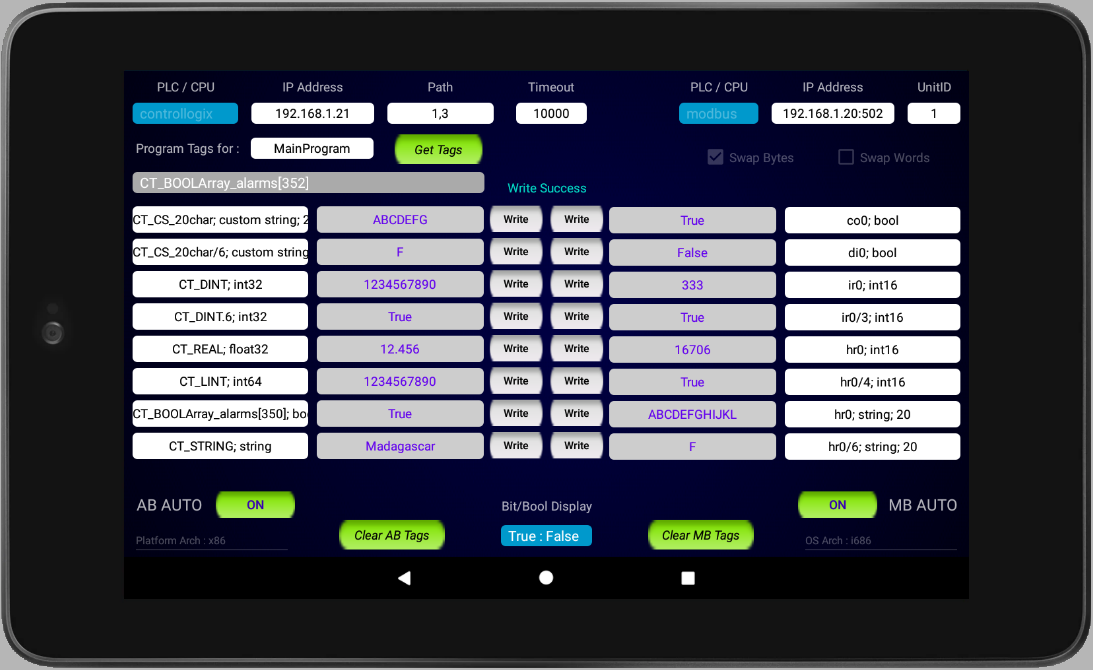
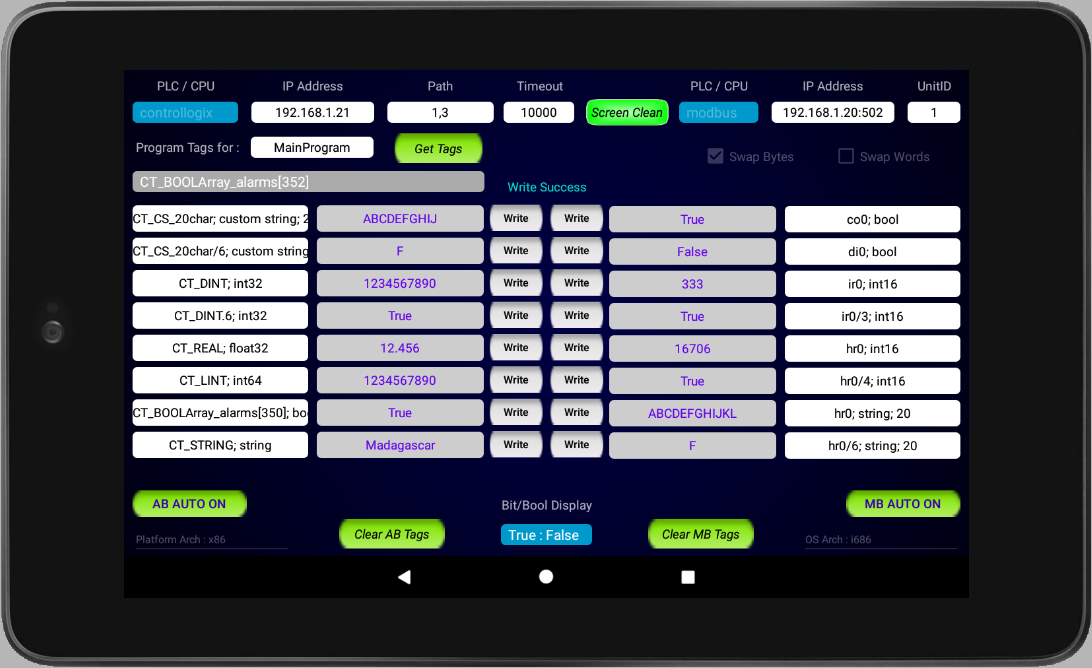
Update GUI and screenshots

diff --git a/app/src/main/java/com/e/tablettest/PopUpAddressAB.java b/app/src/main/java/com/e/tablettest/PopUpAddressAB.java
@@ -1,6 +1,7 @@
 package com.e.tablettest;
 
 import androidx.appcompat.app.AppCompatActivity;
+import androidx.core.content.ContextCompat;
 import android.content.pm.ActivityInfo;
 import android.os.Bundle;
 import android.text.Editable;
@@ -12,6 +13,7 @@ import android.view.WindowManager;
 import android.view.inputmethod.InputMethodManager;
 import android.widget.AdapterView;
 import android.widget.ArrayAdapter;
+import android.widget.Button;
 import android.widget.EditText;
 import android.widget.Spinner;
 
@@ -217,6 +219,8 @@ public class PopUpAddressAB extends AppCompatActivity implements AdapterView.OnI
 
     public void sendMessageReturnTag(View v)
     {
+        ((Button)v).setBackground(ContextCompat.getDrawable(this, android.R.drawable.button_onoff_indicator_off));
+
         // Remove all the spaces from the tag
         String tag = (etABTag.getText().toString()).replace(" ", "");
 

diff --git a/app/src/main/java/com/e/tablettest/PopUpAddressMB.java b/app/src/main/java/com/e/tablettest/PopUpAddressMB.java
@@ -1,6 +1,7 @@
 package com.e.tablettest;
 
 import androidx.appcompat.app.AppCompatActivity;
+import androidx.core.content.ContextCompat;
 import android.content.pm.ActivityInfo;
 import android.os.Bundle;
 import android.text.TextUtils;
@@ -10,6 +11,7 @@ import android.view.WindowManager;
 import android.view.inputmethod.InputMethodManager;
 import android.widget.AdapterView;
 import android.widget.ArrayAdapter;
+import android.widget.Button;
 import android.widget.EditText;
 import android.widget.Spinner;
 
@@ -152,6 +154,8 @@ public class PopUpAddressMB extends AppCompatActivity implements AdapterView.OnI
 
     public void sendMessageReturnTag(View v)
     {
+        ((Button)v).setBackground(ContextCompat.getDrawable(this, android.R.drawable.button_onoff_indicator_off));
+
         String addr = (etMBAddr.getText().toString());
 
         if (!TextUtils.isEmpty(addr)){
